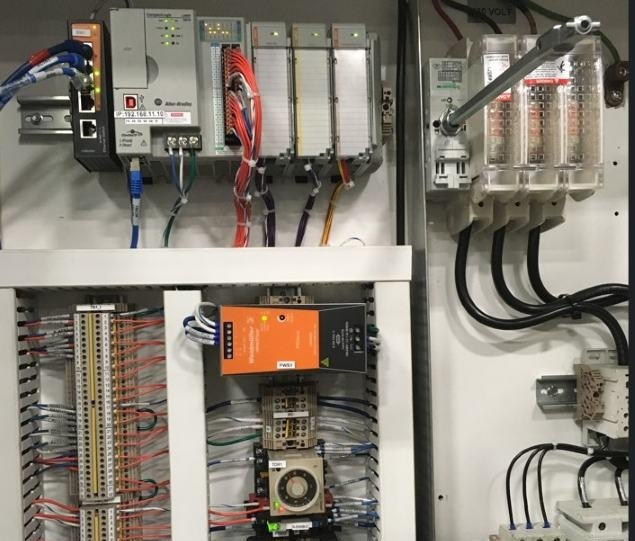
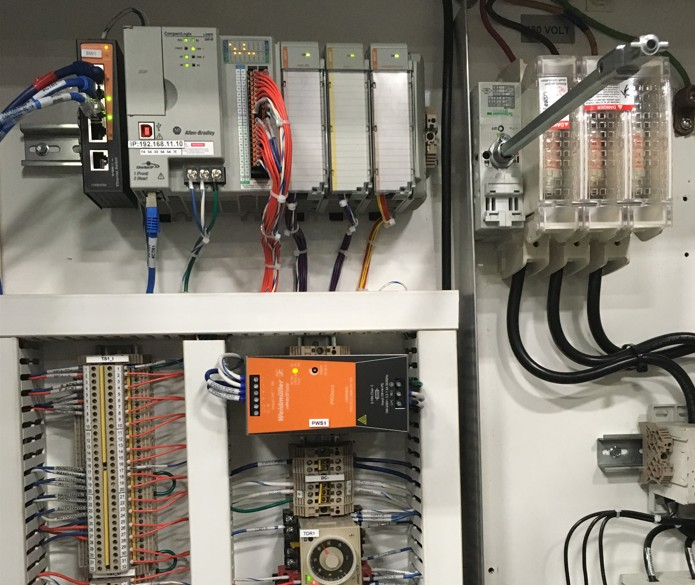
correct the img file name JPG to jpg

diff --git a/index.html b/index.html
@@ -100,7 +100,7 @@
         </div>
 
         <div class="card">
-          <img src="images/Commissioning.JPG" alt="Commissioning" />
+          <img src="images/Commissioning.jpg" alt="Commissioning" />
           <h3>Commissioning</h3>
 
           <p>
@@ -110,7 +110,7 @@
         </div>
 
         <div class="card">
-          <img src="images/Troubleshooting.JPG" alt="Troubleshooting" />
+          <img src="images/Troubleshooting.jpg" alt="Troubleshooting" />
           <h3>Troubleshooting</h3>
 
           <p>
@@ -120,7 +120,7 @@
         </div>
 
         <div class="card">
-          <img src="images/Electrical.JPG" alt="Migration" />
+          <img src="images/Electrical.jpg" alt="Migration" />
           <h3>Electrical Design and Automation Upgrades</h3>
 
           <p>